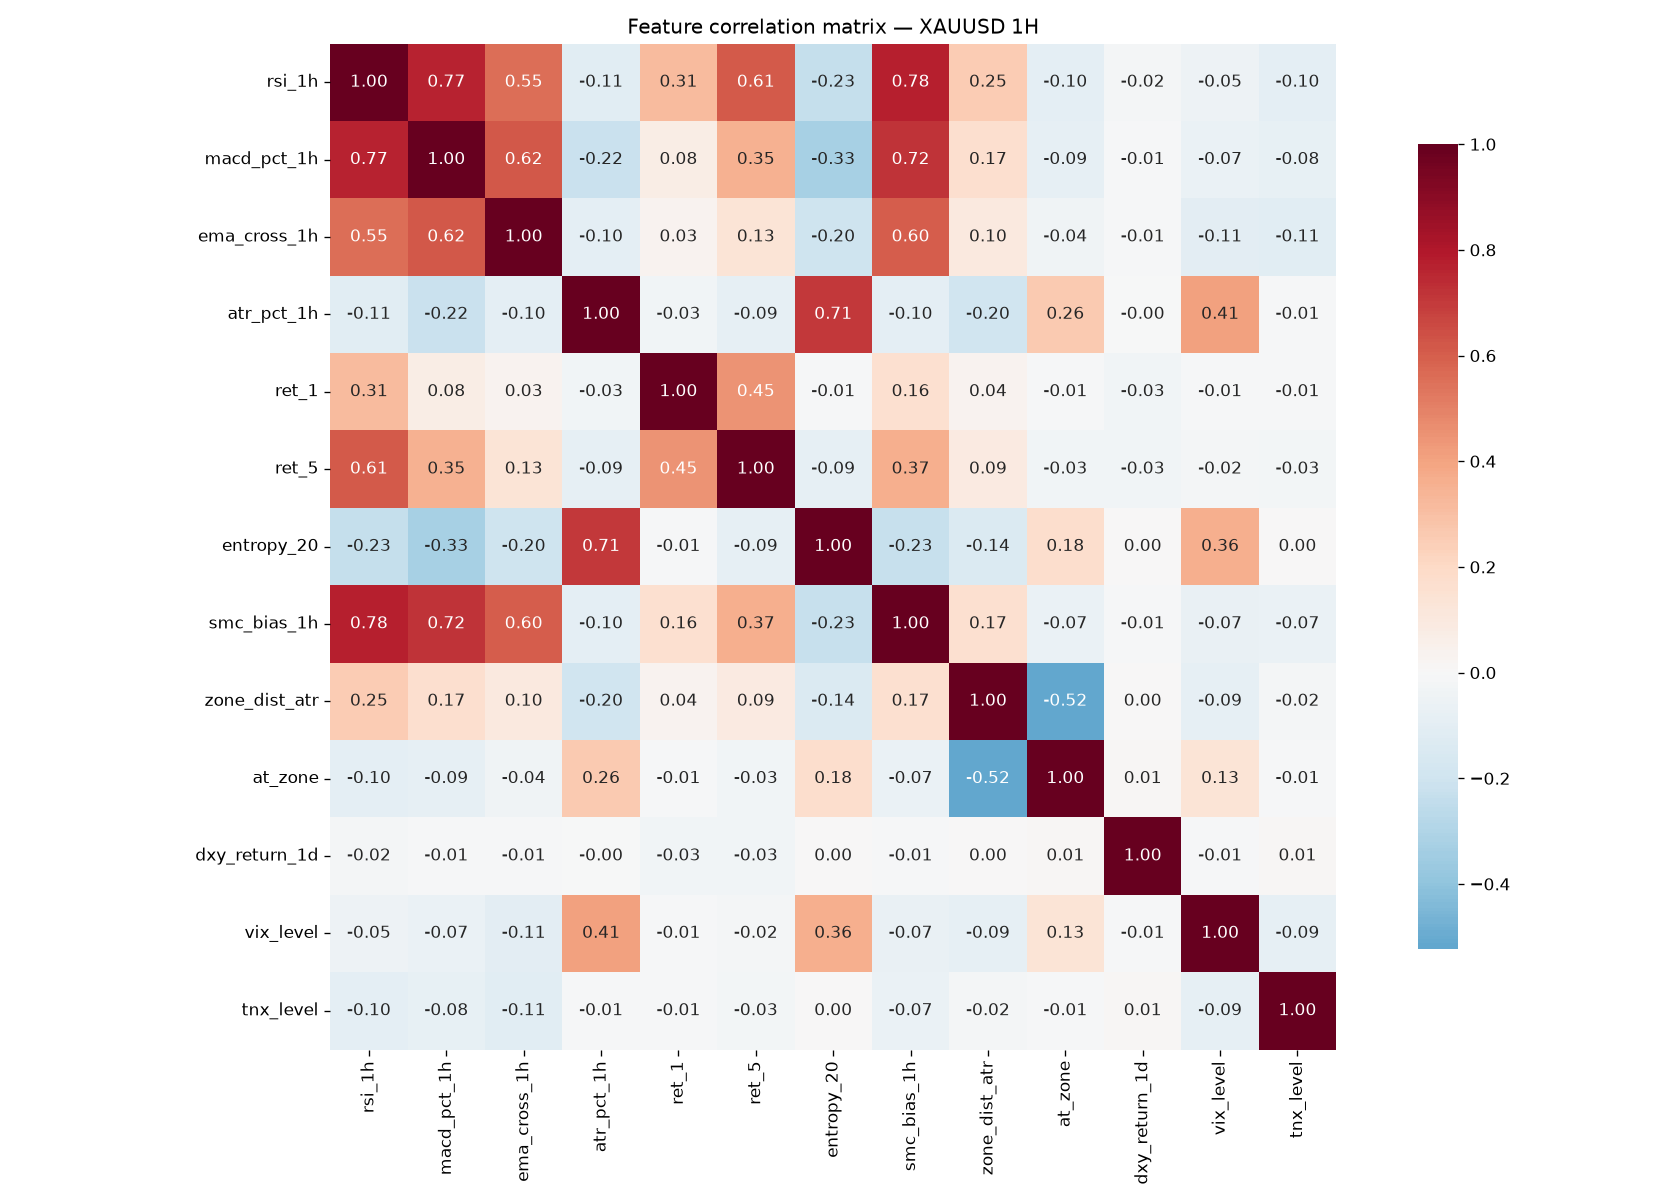
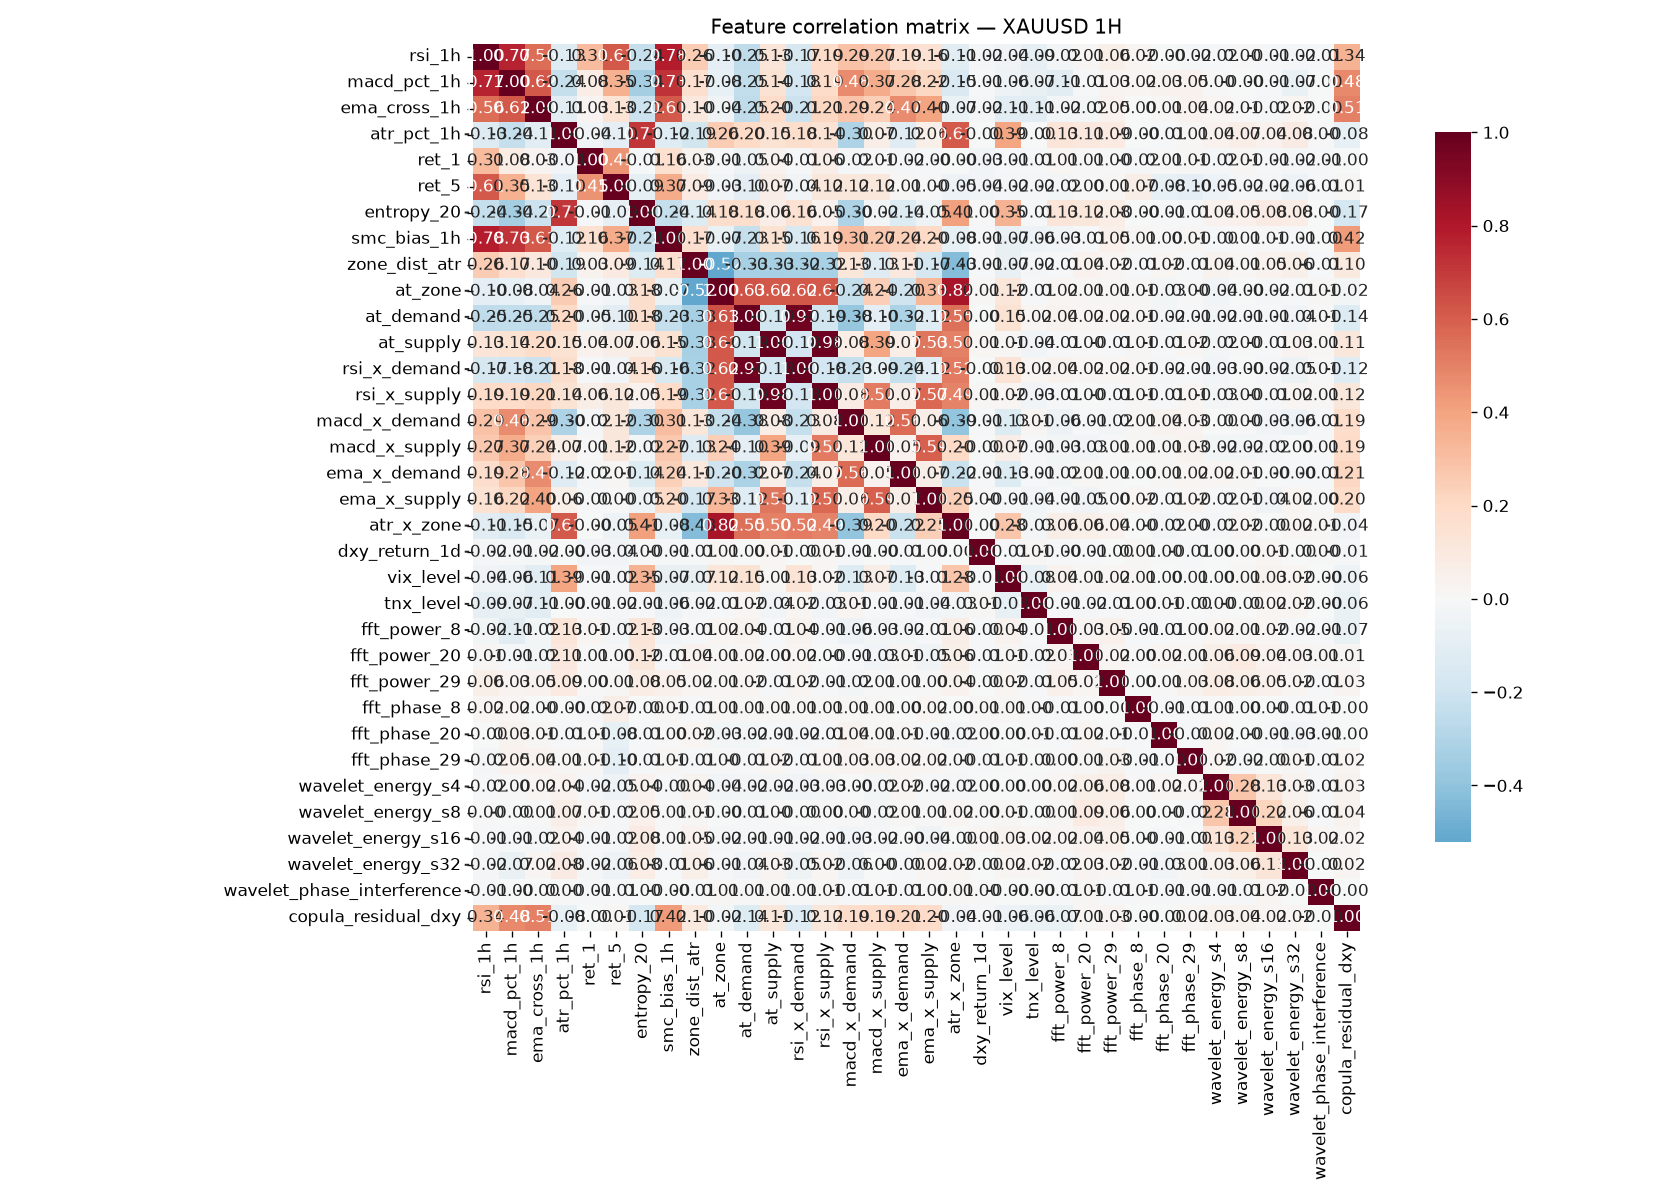
feat(engine): Rails 1-3 + quantum/spectral features
- Rail 1: RSI/MACD/EMA/ATR x zone interaction cross-features
- Rail 2: directional at_demand/at_supply zone flags
- Rail 3: regime filter in model_trainer (near-zone training only)
- Quantum A: Fourier FFT cycle power/phase (8/20/29-bar)
- Quantum B: Morlet CWT wavelet energy + phase interference
- Quantum C: Clayton copula residual XAUUSD vs DXY (daily resolution)
- Add PyWavelets dependency

diff --git a/engine/feature_engineer.py b/engine/feature_engineer.py
@@ -131,6 +131,143 @@ def build_last_row_features(
     return fm.iloc[-1]
 
 
+# ─── Fourier (FFT) cycle features ──────────────────────────────
+def _fourier_features(
+    close: pd.Series,
+    cycles: list = [8, 20, 29],
+    window: int = 128,
+) -> pd.DataFrame:
+    """Rolling FFT over `window` bars.
+
+    cycles = list of bar-length periods to analyse (unit = bars).
+    Returns:
+      fft_power_<c>  = normalised spectral power at cycle c
+      fft_phase_<c>  = instantaneous phase in [-pi, pi]
+    """
+    from scipy.fft import rfft, rfftfreq
+
+    prices = close.values.astype(float)
+    n = len(prices)
+    res = {f"fft_power_{c}": np.full(n, np.nan) for c in cycles}
+    res.update({f"fft_phase_{c}": np.full(n, np.nan) for c in cycles})
+
+    for i in range(window, n):
+        seg = prices[i - window:i].copy()
+        # Linear detrend — removes drift so FFT sees cycles, not trend
+        trend = np.linspace(seg[0], seg[-1], window)
+        seg_dt = seg - trend
+        F = rfft(seg_dt)
+        freqs = rfftfreq(window, d=1.0)  # cycles per bar
+        for c in cycles:
+            if c <= 0:
+                continue
+            idx = int(np.argmin(np.abs(freqs - 1.0 / c)))
+            res[f"fft_power_{c}"][i] = float(np.abs(F[idx]) ** 2)
+            res[f"fft_phase_{c}"][i] = float(np.angle(F[idx]))
+
+    df_out = pd.DataFrame(res, index=close.index)
+    # Normalise power by 50-bar rolling mean (removes scale dependency)
+    for c in cycles:
+        col = f"fft_power_{c}"
+        roll = df_out[col].rolling(50, min_periods=10).mean()
+        df_out[col] = df_out[col] / (roll + 1e-10)
+    return df_out
+
+
+# ─── Wavelet (CWT Morlet) features ─────────────────────────────
+def _wavelet_features(
+    close: pd.Series,
+    scales: list = [4, 8, 16, 32],
+) -> pd.DataFrame:
+    """CWT with Morlet wavelet over the full price series.
+
+    scales = list of bar-length scales (unit = bars).
+    Returns:
+      wavelet_energy_s<n>        = normalised energy at scale n
+      wavelet_phase_interference = (1 - cos(phase_fast - phase_slow)) / 2
+        0 = in-phase (strong signal)
+        1 = fully out-of-phase (noisy / reversal)
+    """
+    try:
+        import pywt
+    except ImportError:
+        print("[feature_engineer] pywt not installed — wavelet features skipped")
+        return pd.DataFrame(index=close.index)
+
+    prices = close.values.astype(float)
+    res = {}
+    # CWT — operates on the full series at once (vectorised, fast)
+    coeffs, _ = pywt.cwt(prices, scales, "morl")
+    for i, scale in enumerate(scales):
+        energy = np.abs(coeffs[i]) ** 2
+        energy_s = pd.Series(energy, index=close.index)
+        # Normalise: divide by 100-bar rolling mean
+        roll = energy_s.rolling(100, min_periods=20).mean()
+        res[f"wavelet_energy_s{scale}"] = energy_s / (roll + 1e-10)
+
+    # Phase interference: fastest scale vs third scale
+    if len(scales) >= 3:
+        phase_fast = np.angle(coeffs[0])  # e.g. scale=4 bars
+        phase_slow = np.angle(coeffs[2])  # e.g. scale=16 bars
+        diff = phase_fast - phase_slow
+        # 0 = in-phase (constructive — trend alignment across timeframes)
+        # 1 = anti-phase (destructive — conflicting signals, avoid trading)
+        res["wavelet_phase_interference"] = pd.Series(
+            (1.0 - np.cos(diff)) / 2.0,
+            index=close.index,
+        )
+    return pd.DataFrame(res, index=close.index)
+
+
+# ─── Clayton Copula residual (XAUUSD vs DXY) ──────────────────
+def _copula_residual(
+    y_returns: pd.Series,
+    x_returns: pd.Series,
+    window: int = 60,
+) -> pd.Series:
+    """Empirical Clayton-copula conditional residual.
+
+    y = XAUUSD log-returns, x = DXY log-returns.
+    For each bar i in range [window, n]:
+      1. Rank-transform the window → uniform margins [0,1]
+      2. Estimate theta from Kendall tau: theta = 2*tau / (1 - tau)
+      3. Compute E[U | V = v_curr] via nearest-neighbour in the rank space
+      4. Residual = u_curr - E[U|V]
+    Positive residual: gold outperforms what DXY predicts (bullish signal)
+    Negative residual: gold underperforms (bearish signal)
+    """
+    from scipy.stats import rankdata as _rank, kendalltau
+
+    y = y_returns.values.astype(float)
+    x = x_returns.values.astype(float)
+    n = len(y)
+    residuals = np.full(n, np.nan)
+
+    for i in range(window, n):
+        y_w = y[i - window:i]
+        x_w = x[i - window:i]
+        valid = np.isfinite(y_w) & np.isfinite(x_w)
+        if valid.sum() < window // 2:
+            continue
+        y_v, x_v = y_w[valid], x_w[valid]
+        m = len(y_v)
+        # Rank transform → uniform margins
+        uy = _rank(y_v) / (m + 1.0)
+        ux = _rank(x_v) / (m + 1.0)
+        # Rank of the most recent observation within the window
+        u_curr = float(np.sum(y_v[:-1] < y_v[-1]) / max(m - 1, 1))
+        v_curr = float(np.sum(x_v[:-1] < x_v[-1]) / max(m - 1, 1))
+        # Empirical conditional E[U | V near v_curr]
+        # bandwidth 0.20 = look at x-ranks within ±20% of v_curr
+        bw = 0.20
+        near_v = np.abs(ux - v_curr) < bw
+        if near_v.sum() >= 5:
+            u_expected = float(uy[near_v].mean())
+            residuals[i] = u_curr - u_expected
+
+    return pd.Series(residuals, index=y_returns.index)
+
+
 # ─── core ──────────────────────────────────────────────────────────
 def build_features(
     bars: pd.DataFrame,
@@ -170,12 +307,15 @@ def build_features(
 
     # ─── 2. SMC bias + S/R zones (trailing window per bar) ────────
     smc_bias, zone_dist, at_zone = [], [], []
+    at_demand, at_supply = [], []  # Rail 2: directional zone flags
     cols = ["open", "high", "low", "close"]
     for i in range(len(bars)):
         if i < 60:
             smc_bias.append(0)
             zone_dist.append(np.nan)
             at_zone.append(0)
+            at_demand.append(0)  # Rail 2
+            at_supply.append(0)  # Rail 2
             continue
         start = max(0, i - _SMC_WINDOW)
         window_df = bars.iloc[start:i + 1][cols]
@@ -184,6 +324,7 @@ def build_features(
         zones = support_resistance.detect_zones(window_df)
         price = float(close.iloc[i])
         atr_i = float(atr_abs.iloc[i]) if pd.notna(atr_abs.iloc[i]) else 0.0
+        # Nearest zone (direction-blind) — same as before
         nz = support_resistance.nearest_zone(price, zones)
         if nz and atr_i > 0:
             dist = abs(nz["price"] - price) / atr_i
@@ -192,13 +333,69 @@ def build_features(
         else:
             zone_dist.append(np.nan)
             at_zone.append(0)
+        # Rail 2: directional zone proximity ──────────────────────
+        if atr_i > 0:
+            nz_bull = support_resistance.nearest_zone(price, zones, kind="support")
+            nz_bear = support_resistance.nearest_zone(price, zones, kind="resistance")
+            d_bull = abs(nz_bull["price"] - price) / atr_i if nz_bull else np.inf
+            d_bear = abs(nz_bear["price"] - price) / atr_i if nz_bear else np.inf
+            at_demand.append(1 if d_bull < 0.5 else 0)
+            at_supply.append(1 if d_bear < 0.5 else 0)
+        else:
+            at_demand.append(0)
+            at_supply.append(0)
     out[f"smc_bias_{tf_suffix}"] = smc_bias
     out["zone_dist_atr"] = zone_dist
     out["at_zone"] = at_zone
+    out["at_demand"] = at_demand  # Rail 2: new
+    out["at_supply"] = at_supply  # Rail 2: new
+    # Rail 1: Interaction (cross) features ─────────────────────────
+    # Multiplying indicator × zone_flag forces the model to evaluate
+    # both simultaneously. L1 zeroes them if they add no information.
+    tf = tf_suffix
+    out["rsi_x_demand"] = out[f"rsi_{tf}"] * out["at_demand"]
+    out["rsi_x_supply"] = out[f"rsi_{tf}"] * out["at_supply"]
+    out["macd_x_demand"] = out[f"macd_pct_{tf}"] * out["at_demand"]
+    out["macd_x_supply"] = out[f"macd_pct_{tf}"] * out["at_supply"]
+    out["ema_x_demand"] = out[f"ema_cross_{tf}"] * out["at_demand"]
+    out["ema_x_supply"] = out[f"ema_cross_{tf}"] * out["at_supply"]
+    out["atr_x_zone"] = out[f"atr_pct_{tf}"] * out["at_zone"]
 
     # ─── 3. Macro (gold only) ─────────────────────────────────────
     if symbol is None or symbol_has_macro(symbol):
         out = _attach_macro(out, macro)
+
+    # ─── Fourier spectral features ─────────────────────────────────
+    # window=128 needs 128 bars of history; bars before that stay NaN
+    # (dropna() at the end of build_features handles this automatically)
+    fft_df = _fourier_features(close, cycles=[8, 20, 29], window=128)
+    for col in fft_df.columns:
+        out[col] = fft_df[col].reindex(out.index)
+
+    # ─── Wavelet spectral features ─────────────────────────────────
+    wvt_df = _wavelet_features(close, scales=[4, 8, 16, 32])
+    for col in wvt_df.columns:
+        out[col] = wvt_df[col].reindex(out.index)
+
+    # ─── Clayton copula residual (XAUUSD vs DXY) — gold pairs only ──
+    # DXY is daily-native: computing the copula directly on hourly bars
+    # degenerates because ffill makes ~23/24 hourly dxy returns zero,
+    # leaving too few distinct points per 60-bar window. Compute the
+    # copula at DAILY resolution (both series → end-of-day) then broadcast
+    # the residual back onto the bar index via ffill.
+    if symbol and symbol_has_macro(symbol) and macro is not None:
+        macro_c = _clean_index(macro.copy())
+        if "dxy" in macro_c.columns:
+            dxy_d = macro_c["dxy"].dropna()
+            dxy_ret_d = np.log(dxy_d / dxy_d.shift(1)).dropna()
+            close_d = close.groupby(close.index.normalize()).last().dropna()
+            xau_ret_d = np.log(close_d / close_d.shift(1)).dropna()
+            common = dxy_ret_d.index.intersection(xau_ret_d.index)
+            resid_d = _copula_residual(
+                xau_ret_d.reindex(common), dxy_ret_d.reindex(common), window=60
+            ).dropna()
+            resid_d.index = resid_d.index.normalize()
+            out["copula_residual_dxy"] = resid_d.reindex(out.index, method="ffill")
 
     # Keep OHLC for the labeler, then drop warmup NaNs from indicators
     out["high"] = bars["high"]

diff --git a/engine/model_trainer.py b/engine/model_trainer.py
@@ -75,6 +75,29 @@ def train(symbol: str, timeframe: str) -> dict | None:
               f"(< {tf_min_bars(timeframe)} min) — skip")
         return None
 
+    # ─── Rail 3: Regime Filter — train on actionable states only ────
+    # zone_dist_atr = distance to nearest S/R zone measured in ATR units.
+    # < 2.0  = price is within 2 ATR of a zone → actionable, include.
+    # >= 2.0 = price is floating in open space → noisy, exclude.
+    # Adjust ZONE_ATR_THRESHOLD to tune how strict the filter is:
+    #   1.0 = very strict (only bars touching the zone)
+    #   2.0 = moderate (recommended starting point)
+    #   3.0 = loose (keeps more rows but more noise)
+    ZONE_ATR_THRESHOLD = 2.0
+    if "zone_dist_atr" in df.columns:
+        n_before = len(df)
+        df = df[df["zone_dist_atr"] < ZONE_ATR_THRESHOLD].copy()
+        n_after = len(df)
+        pct = n_after / n_before * 100 if n_before > 0 else 0.0
+        print(f"[Rail 3] Regime filter: {n_before} rows → {n_after} rows "
+              f"({pct:.1f}% retained — near-zone training only)")
+        if n_after < 200:
+            print("[Rail 3] WARNING: fewer than 200 rows after filter — "
+                  "consider raising ZONE_ATR_THRESHOLD to 3.0")
+    else:
+        print("[Rail 3] zone_dist_atr column not found — filter skipped. "
+              "Re-run feature_engineer.py first.")
+
     X = df[feats].astype(float)
     y = df["label"].astype(int)
 